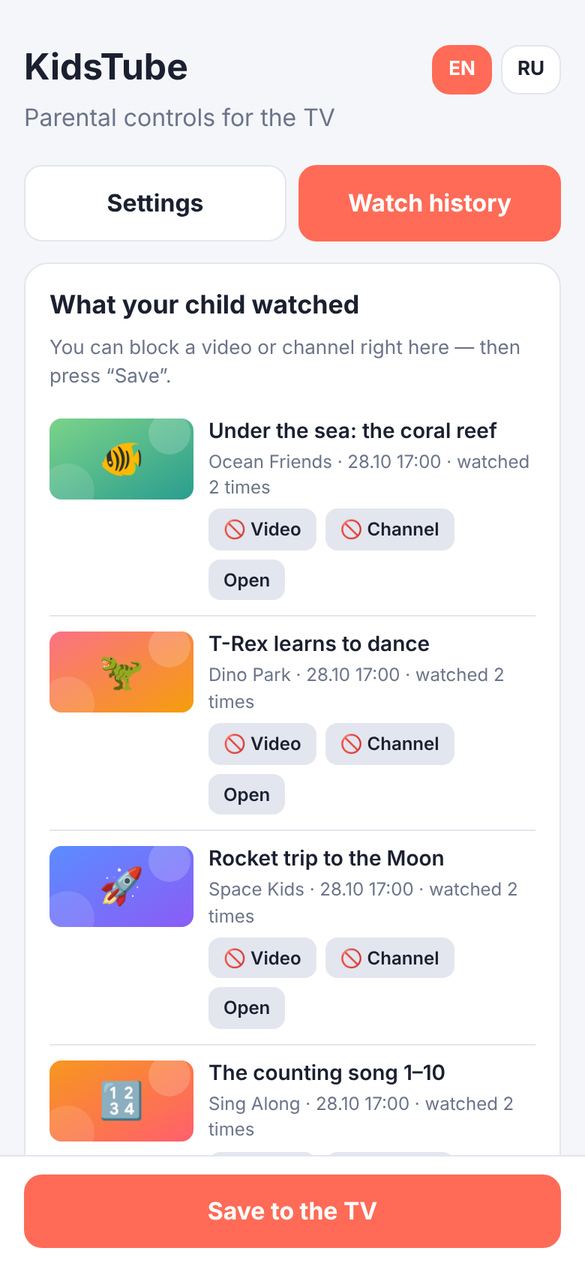
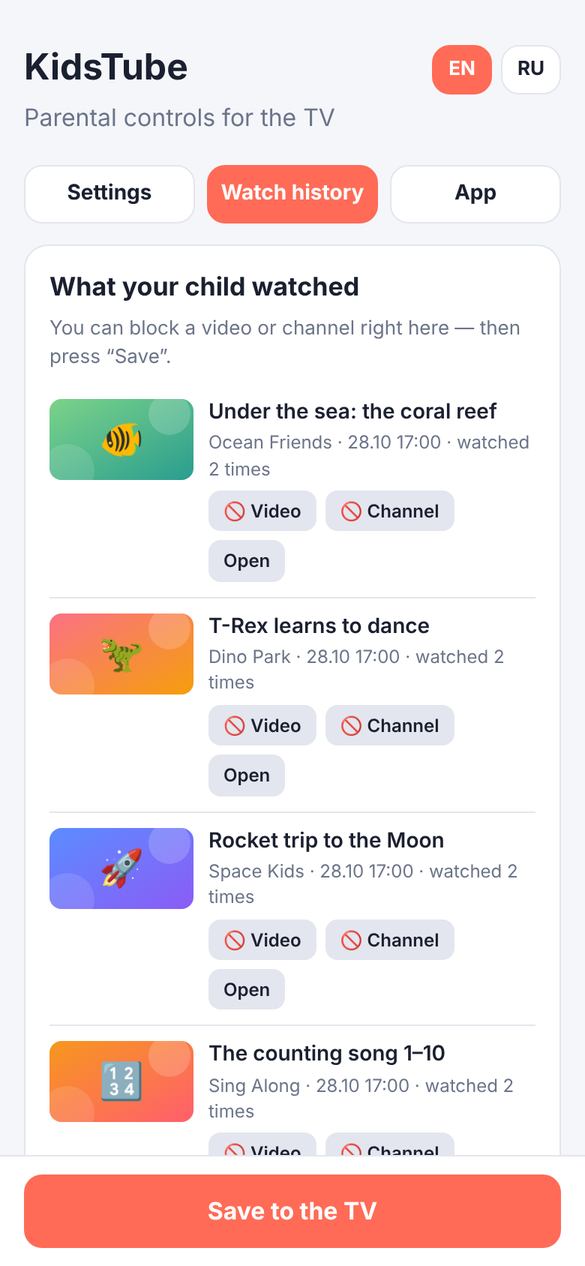
Phone settings page covers everything: new App tab
- Every TV setting was already editable from the phone; the new App tab adds
  the remaining TV-only actions: version, API quota used today, check for
  updates and install them on the TV, clear watch history, clear cache
- Settings server: PIN-protected /api/app/* actions; the TV UI reports its
  status (quota) to the native side
- Fixed the tab row overflowing on narrow phones
- README: phone section and screenshot

Claude-Session: https://claude.ai/code/session_01LeVTQgiJFxbKKbMWa6au5F

Changed region(s): [[0.0615, 0.1232, 0.9846, 0.9242], [0.8, 0.2464, 0.8923, 0.2773]]

diff --git a/app/src/main/assets/web/remote.html b/app/src/main/assets/web/remote.html
@@ -41,8 +41,13 @@
   .mini { width: auto; padding: 5px 10px; font-size: 12px; border-radius: 8px; background: var(--line); color: var(--text); font-weight: 600; }
   .mini.done { background: var(--ok); color: #fff; }
   .tabs { display: flex; gap: 8px; margin-bottom: 14px; }
-  .tab { background: var(--card); color: var(--text); border: 1px solid var(--line); }
+  .tab { background: var(--card); color: var(--text); border: 1px solid var(--line); width: auto; flex: 1 1 0; min-width: 0; padding: 10px 6px; font-size: 14px; line-height: 1.2; }
+  html, body { overflow-x: hidden; }
   .tab.on { background: var(--accent); color: #fff; border-color: var(--accent); }
+  .kv { display: flex; justify-content: space-between; padding: 8px 0; border-top: 1px solid var(--line); }
+  .kv:first-of-type { border-top: 0; }
+  .kv span { color: var(--muted); }
+  button.secondary { background: var(--line); color: var(--text); }
   .lang { display: flex; gap: 6px; float: right; margin-top: 10px; }
   .lang button { width: auto; padding: 6px 10px; font-size: 13px; background: var(--card); color: var(--text); border: 1px solid var(--line); }
   .lang button.on { background: var(--accent); color: #fff; border-color: var(--accent); }
@@ -67,6 +72,33 @@
   <div class="tabs hidden" id="tabs">
     <button class="tab on" data-tab="form" data-i="tabSettings"></button>
     <button class="tab" data-tab="history" data-i="tabHistory"></button>
+    <button class="tab" data-tab="app" data-i="tabApp"></button>
+  </div>
+
+  <!-- App: version, updates, maintenance -->
+  <div id="app" class="hidden">
+    <div class="card">
+      <h2 data-i="appTitle"></h2>
+      <div class="kv"><span data-i="version"></span><b id="appVersion">—</b></div>
+      <div class="kv"><span data-i="quota"></span><b id="appQuota">—</b></div>
+      <div class="kv"><span data-i="histCount"></span><b id="appHist">—</b></div>
+    </div>
+    <div class="card">
+      <h2 data-i="updates"></h2>
+      <div class="hint" id="updText" data-i="updHint"></div>
+      <div style="height:10px"></div>
+      <button id="updCheck" data-i="checkUpd"></button>
+      <div style="height:8px"></div>
+      <button id="updInstall" class="hidden" data-i="installUpd"></button>
+    </div>
+    <div class="card">
+      <h2 data-i="maintenance"></h2>
+      <button id="clrHistory" class="secondary" data-i="clearHistory"></button>
+      <div class="hint" data-i="clearHistoryHint"></div>
+      <div style="height:12px"></div>
+      <button id="clrCache" class="secondary" data-i="clearCache"></button>
+      <div class="hint" data-i="clearCacheHint"></div>
+    </div>
   </div>
 
   <!-- History -->
@@ -141,7 +173,14 @@
   var STR = {
     en: {
       sub: 'Parental controls for the TV', login: 'Sign in', parentPin: 'Parent PIN', loginPh: 'Leave empty if no PIN is set yet', signIn: 'Sign in',
-      tabSettings: 'Settings', tabHistory: 'Watch history',
+      tabSettings: 'Settings', tabHistory: 'Watch history', tabApp: 'App',
+      appTitle: 'KidsTube on the TV', version: 'Version', quota: 'API quota used today', histCount: 'Videos in the history',
+      updates: 'Updates', updHint: 'Check GitHub for a new version.', checkUpd: 'Check for updates', installUpd: 'Install on the TV',
+      updChecking: 'Checking…', updAvailable: 'New version available: {0}. Installed: {1}.', updLatest: 'You have the latest version ({0}).',
+      updStarted: 'Download started on the TV. Confirm the installation on the TV screen with the remote.',
+      maintenance: 'Maintenance', clearHistory: 'Clear watch history', clearHistoryHint: 'Removes “Watched”, “Watch again” and the history on this page.',
+      clearCache: 'Clear cache', clearCacheHint: 'Search results and channel lists will be loaded again.',
+      confirmHistory: 'Clear the whole watch history?', done: 'Done ✓',
       histTitle: 'What your child watched', histHint: 'You can block a video or channel right here — then press “Save”.',
       loading: 'Loading…', histEmpty: 'Nothing watched yet.', histFail: 'Could not load the history.',
       watchedTimes: 'watched {0} times', blockVideo: '🚫 Video', blockChannel: '🚫 Channel', videoListed: '✓ Video listed', channelListed: '✓ Channel listed', open: 'Open',
@@ -162,7 +201,14 @@
     },
     ru: {
       sub: 'Настройки родительского контроля на телевизоре', login: 'Вход', parentPin: 'PIN родителя', loginPh: 'Если PIN ещё не задан — оставьте пустым', signIn: 'Войти',
-      tabSettings: 'Настройки', tabHistory: 'История просмотров',
+      tabSettings: 'Настройки', tabHistory: 'История просмотров', tabApp: 'Приложение',
+      appTitle: 'KidsTube на телевизоре', version: 'Версия', quota: 'Квота API за сегодня', histCount: 'Видео в истории',
+      updates: 'Обновления', updHint: 'Проверить новую версию на GitHub.', checkUpd: 'Проверить обновления', installUpd: 'Установить на телевизор',
+      updChecking: 'Проверяю…', updAvailable: 'Доступна новая версия: {0}. Сейчас установлена {1}.', updLatest: 'Установлена последняя версия ({0}).',
+      updStarted: 'Загрузка началась на телевизоре. Подтвердите установку на экране ТВ пультом.',
+      maintenance: 'Обслуживание', clearHistory: 'Очистить историю просмотров', clearHistoryHint: 'Удалит «Я смотрел», «Смотреть снова» и историю на этой странице.',
+      clearCache: 'Очистить кэш', clearCacheHint: 'Результаты поиска и списки каналов загрузятся заново.',
+      confirmHistory: 'Очистить всю историю просмотров?', done: 'Готово ✓',
       histTitle: 'Что смотрел ребёнок', histHint: 'Можно сразу заблокировать видео или канал — затем нажмите «Сохранить».',
       loading: 'Загрузка…', histEmpty: 'Пока ничего не смотрели.', histFail: 'Не удалось загрузить историю.',
       watchedTimes: 'смотрел {0} раз', blockVideo: '🚫 Видео', blockChannel: '🚫 Канал', videoListed: '✓ Видео в списке', channelListed: '✓ Канал в списке', open: 'Открыть',
@@ -183,7 +229,7 @@
     }
   };
   var lang = /^ru/i.test(navigator.language || '') ? 'ru' : 'en';
-  function t(k, a) { var v = (STR[lang][k] || STR.en[k] || k); return a === undefined ? v : v.replace('{0}', a); }
+  function t(k, a, b) { var v = (STR[lang][k] || STR.en[k] || k); return v.replace('{0}', a === undefined ? '' : a).replace('{1}', b === undefined ? '' : b); }
   function applyLang(l) {
     lang = STR[l] ? l : 'en';
     document.documentElement.lang = lang;
@@ -248,7 +294,10 @@
       var tab = tb.getAttribute('data-tab');
       $('form').classList.toggle('hidden', tab !== 'form');
       $('history').classList.toggle('hidden', tab !== 'history');
+      $('app').classList.toggle('hidden', tab !== 'app');
+      $('bar').classList.toggle('hidden', tab === 'app');
       if (tab === 'history') loadHistory();
+      if (tab === 'app') loadStatus();
     };
   });
 
@@ -295,6 +344,46 @@
       });
     }).catch(function () { box.innerHTML = ''; box.appendChild(hint(t('histFail'))); });
   }
+
+  // ---- App tab ----
+  var upd = null;
+  function loadStatus() {
+    post('/api/app/status', { pin: pin }).then(function (r) {
+      if (!r.ok) { msg(r.error || t('error')); return; }
+      $('appVersion').textContent = r.version + ' (' + r.versionCode + ')';
+      $('appQuota').textContent = (r.tv && r.tv.quotaUsed != null ? '~' + r.tv.quotaUsed : '0') + ' / 10 000';
+      $('appHist').textContent = r.historyCount;
+    }).catch(function () { msg(t('noTv')); });
+  }
+  $('updCheck').onclick = function () {
+    $('updText').textContent = t('updChecking');
+    $('updInstall').classList.add('hidden');
+    post('/api/app/update-check', { pin: pin }).then(function (r) {
+      if (!r.ok) { $('updText').textContent = r.error || t('error'); return; }
+      upd = r.update;
+      if (upd.available) {
+        $('updText').textContent = t('updAvailable', upd.latestName || upd.latestCode, upd.currentName);
+        $('updInstall').classList.remove('hidden');
+      } else $('updText').textContent = t('updLatest', upd.currentName);
+    }).catch(function () { msg(t('noTv')); });
+  };
+  $('updInstall').onclick = function () {
+    post('/api/app/update-install', { pin: pin }).then(function (r) {
+      $('updText').textContent = r.ok ? t('updStarted') : (r.error || t('error'));
+      $('updInstall').classList.add('hidden');
+    }).catch(function () { msg(t('noTv')); });
+  };
+  $('clrHistory').onclick = function () {
+    if (!confirm(t('confirmHistory'))) return;
+    post('/api/app/clear-history', { pin: pin }).then(function (r) {
+      msg(r.ok ? t('done') : (r.error || t('error')), r.ok);
+      loadStatus();
+    }).catch(function () { msg(t('noTv')); });
+  };
+  $('clrCache').onclick = function () {
+    post('/api/app/clear-cache', { pin: pin }).then(function (r) { msg(r.ok ? t('done') : (r.error || t('error')), r.ok); })
+      .catch(function () { msg(t('noTv')); });
+  };
 
   $('saveBtn').onclick = function () {
     var s = {};

diff --git a/app/src/main/assets/web/app.js b/app/src/main/assets/web/app.js
@@ -201,6 +201,13 @@
       o.used += units;
       localStorage.setItem('quota', JSON.stringify(o));
     } catch (e) {}
+    reportStatus();
+  }
+
+  /** Tells the native side what the phone settings page should show (quota used today). */
+  function reportStatus() {
+    if (typeof Native.reportStatus !== 'function') return;
+    try { Native.reportStatus(JSON.stringify({ quotaUsed: quotaUsed(), lang: S.lang })); } catch (e) {}
   }
   function quotaUsed() {
     try { var o = JSON.parse(localStorage.getItem('quota') || '{}'); return o.day === quotaDay() ? o.used : 0; }
@@ -1718,6 +1725,20 @@
       delete nativeCalls[id];
       if (cb) cb(ok, data);
     },
+    /** The parent pressed "Install update" on the phone. */
+    remoteInstall: function () {
+      toast(t('upd.checking'));
+      nativeAsync('checkUpdate').then(function (r) {
+        Upd.info = r;
+        renderUpdate();
+        if (r.available) { toast(t('upd.downloading')); installUpdate(); }
+        else toast(t('upd.latest', r.currentName));
+      }, function (e) { toast(t('upd.checkFail', e.message)); });
+    },
+    onRemoteAction: function (what) {
+      if (what === 'cache') { pruneCache(true); toast(t('toast.cacheCleared')); }
+      if (what === 'history') { toast(t('toast.historyCleared')); refreshVisible(); if (Screens.top() === Library) renderLibrary(false); }
+    },
     onUpdateProgress: function (p) { if (Upd.busy) updInfo(t('upd.progress', p)); },
     onUpdateError: function (msg) { Upd.busy = false; updInfo(msg); toast(msg); },
     onVoiceError: function () { toast(t('toast.noVoice')); },
@@ -1757,4 +1778,5 @@
   loadSettings();
   goHome();
   autoCheckUpdates();
+  reportStatus();
 })();

diff --git a/app/src/main/java/app/kidstube/tv/SettingsServer.java b/app/src/main/java/app/kidstube/tv/SettingsServer.java
@@ -146,6 +146,15 @@ final class SettingsServer implements Runnable {
                     send(out, 200, "application/json; charset=utf-8",
                             "{\"ok\":true,\"history\":" + Store.getHistory(act) + "}");
                 }
+            } else if (method.equals("POST") && path.startsWith("/api/app/")) {
+                // App actions from the phone: status, updates, clearing history and cache.
+                JSONObject req = new JSONObject(bodyText);
+                String err = checkPin(req.optString("pin", ""));
+                if (err != null) {
+                    sendJson(out, 403, error(err));
+                } else {
+                    sendJson(out, 200, appAction(path.substring("/api/app/".length())));
+                }
             } else if (method.equals("POST") && path.equals("/api/save")) {
                 JSONObject req = new JSONObject(bodyText);
                 String err = checkPin(req.optString("pin", ""));
@@ -177,6 +186,35 @@ final class SettingsServer implements Runnable {
             } catch (IOException ignored) {
             }
         }
+    }
+
+    private JSONObject appAction(String action) throws Exception {
+        JSONObject res = new JSONObject();
+        res.put("ok", true);
+        if (action.equals("status")) {
+            res.put("version", Updater.currentVersionName(act));
+            res.put("versionCode", Updater.currentVersionCode(act));
+            res.put("tv", new JSONObject(act.tvStatus()));
+            res.put("historyCount", new org.json.JSONArray(Store.getHistory(act)).length());
+        } else if (action.equals("update-check")) {
+            try {
+                res.put("update", Updater.check(act));
+            } catch (Exception e) {
+                res.put("ok", false);
+                res.put("error", String.valueOf(e.getMessage()));
+            }
+        } else if (action.equals("update-install")) {
+            act.js("window.kt && kt.remoteInstall()");
+        } else if (action.equals("clear-history")) {
+            Store.clearHistory(act);
+            act.js("window.kt && kt.onRemoteAction('history')");
+        } else if (action.equals("clear-cache")) {
+            act.js("window.kt && kt.onRemoteAction('cache')");
+        } else {
+            res.put("ok", false);
+            res.put("error", "Unknown action");
+        }
+        return res;
     }
 
     /** Returns null when the PIN is accepted, otherwise a message for the parent. */

diff --git a/app/src/main/java/app/kidstube/tv/MainActivity.java b/app/src/main/java/app/kidstube/tv/MainActivity.java
@@ -224,6 +224,13 @@ public class MainActivity extends Activity {
         });
     }
 
+    /** Small status report from the UI (quota used today, update state) shown on the phone page. */
+    private volatile String tvStatus = "{}";
+
+    String tvStatus() {
+        return tvStatus;
+    }
+
     void onSettingsChangedRemotely() {
         js("window.kt && kt.onSettingsChanged()");
     }
@@ -366,6 +373,15 @@ public class MainActivity extends Activity {
         @JavascriptInterface
         public void clearHistory() {
             Store.clearHistory(MainActivity.this);
+        }
+
+        @JavascriptInterface
+        public void reportStatus(String json) {
+            try {
+                new JSONObject(json);
+                tvStatus = json;
+            } catch (Exception ignored) {
+            }
         }
 
         @JavascriptInterface

diff --git a/README.ru.md b/README.ru.md
@@ -41,9 +41,9 @@
 </tr>
 </table>
 
-<p><img src="docs/screenshots/phone-settings.png" width="280" alt="Телефон: настройки"> <img src="docs/screenshots/phone-history.png" width="280" alt="Телефон: история просмотров с блокировкой в одно нажатие"></p>
+<p><img src="docs/screenshots/phone-settings.png" width="260" alt="Телефон: настройки"> <img src="docs/screenshots/phone-history.png" width="260" alt="Телефон: история просмотров с блокировкой в одно нажатие"> <img src="docs/screenshots/phone-app.png" width="260" alt="Телефон: версия, обновления и обслуживание"></p>
 
-<sub>Телефон: настройки · Телефон: история просмотров с блокировкой в одно нажатие</sub>
+<sub>Телефон: настройки · Телефон: история просмотров с блокировкой в одно нажатие · Телефон: версия, обновления и обслуживание</sub>
 
 ## Что видит ребёнок
 
@@ -84,7 +84,11 @@
 - **PIN родителя** (4–8 цифр) — защищает настройки и родительское меню на ТВ;
 - запрещённые слова и каналы, подписки для главного экрана, язык на телевизоре.
 
-Настройки можно менять с телефона в любой момент, пока KidsTube открыт на ТВ — они применяются сразу.
+Настройки можно менять с телефона в любой момент, пока KidsTube открыт на ТВ — они применяются сразу. **Всё, что есть в настройках на ТВ, доступно и на телефоне**, в трёх вкладках:
+
+- **Настройки** — все параметры: язык, ключ API, PIN, запрещённые слова/каналы/видео, где искать слова, фильтры, подписки и подборки, автовоспроизведение;
+- **История просмотров** — что смотрели, с блокировкой в одно нажатие;
+- **Приложение** — версия, квота за сегодня, проверка обновлений и установка на ТВ (подтверждение на экране ТВ), очистка истории и кэша.
 
 ### Ключ YouTube Data API
 

diff --git a/README.md b/README.md
@@ -41,9 +41,9 @@ The interface is available in **English** (default) and **Russian** — switch i
 </tr>
 </table>
 
-<p><img src="docs/screenshots/phone-settings.png" width="280" alt="Phone: settings"> <img src="docs/screenshots/phone-history.png" width="280" alt="Phone: watch history with one-tap blocking"></p>
+<p><img src="docs/screenshots/phone-settings.png" width="260" alt="Phone: settings"> <img src="docs/screenshots/phone-history.png" width="260" alt="Phone: watch history with one-tap blocking"> <img src="docs/screenshots/phone-app.png" width="260" alt="Phone: version, updates and maintenance"></p>
 
-<sub>Phone: settings · Phone: watch history with one-tap blocking</sub>
+<sub>Phone: settings · Phone: watch history with one-tap blocking · Phone: version, updates and maintenance</sub>
 
 ## What the child sees
 
@@ -84,7 +84,11 @@ On first launch the TV shows an address like `http://192.168.1.23:8765` and a QR
 - the **parent PIN** (4–8 digits) — it protects the settings and the parent menu on the TV;
 - blocked words and channels, subscriptions for the home screen, the TV language.
 
-You can change the settings from the phone at any time while KidsTube is open on the TV; they apply immediately.
+You can change the settings from the phone at any time while KidsTube is open on the TV; they apply immediately. **Everything available in the TV settings is also on the phone page**, in three tabs:
+
+- **Settings** — every option: language, API key, PIN, blocked words/channels/videos, where to look for words, filters, subscriptions and collections, autoplay;
+- **Watch history** — what was watched, with one-tap blocking;
+- **App** — version, quota used today, check for updates and install them on the TV (confirm on the TV screen), clear the watch history or the cache.
 
 ### YouTube Data API key
 
